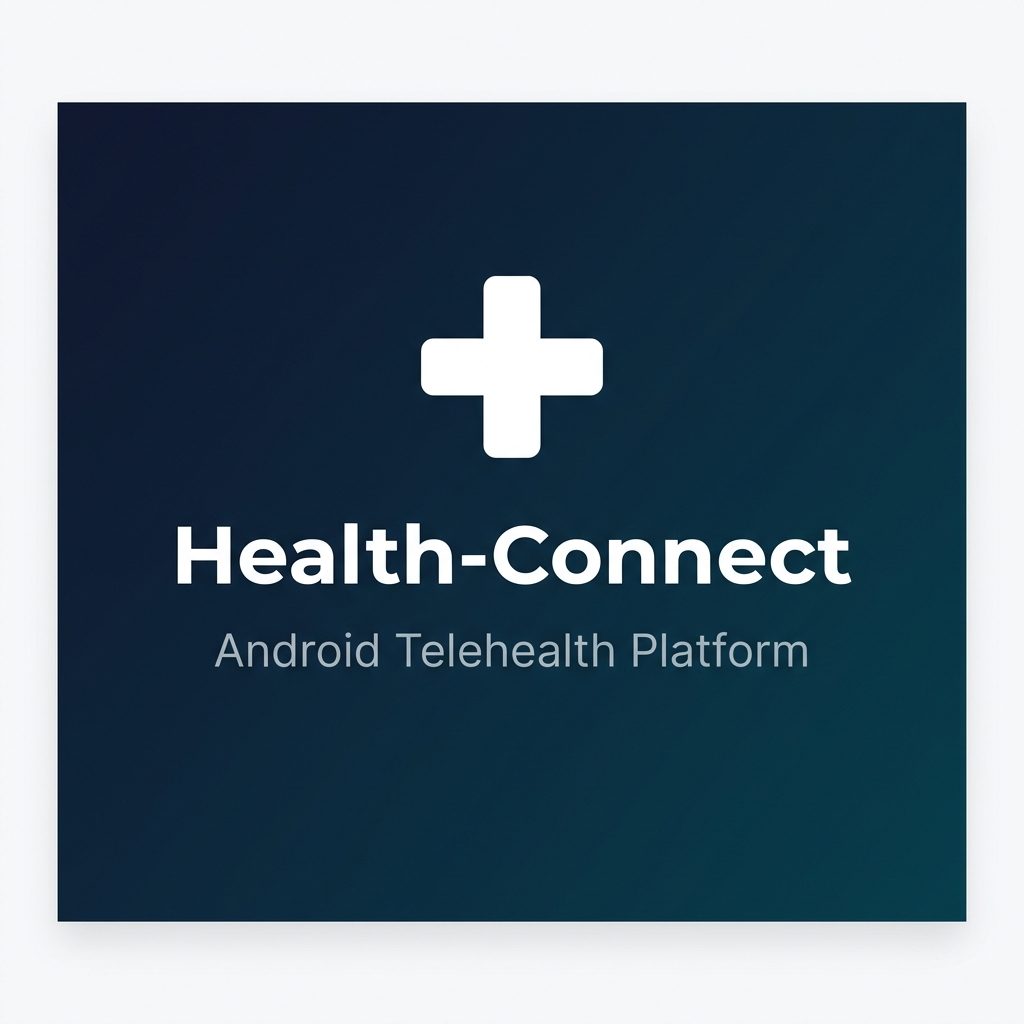
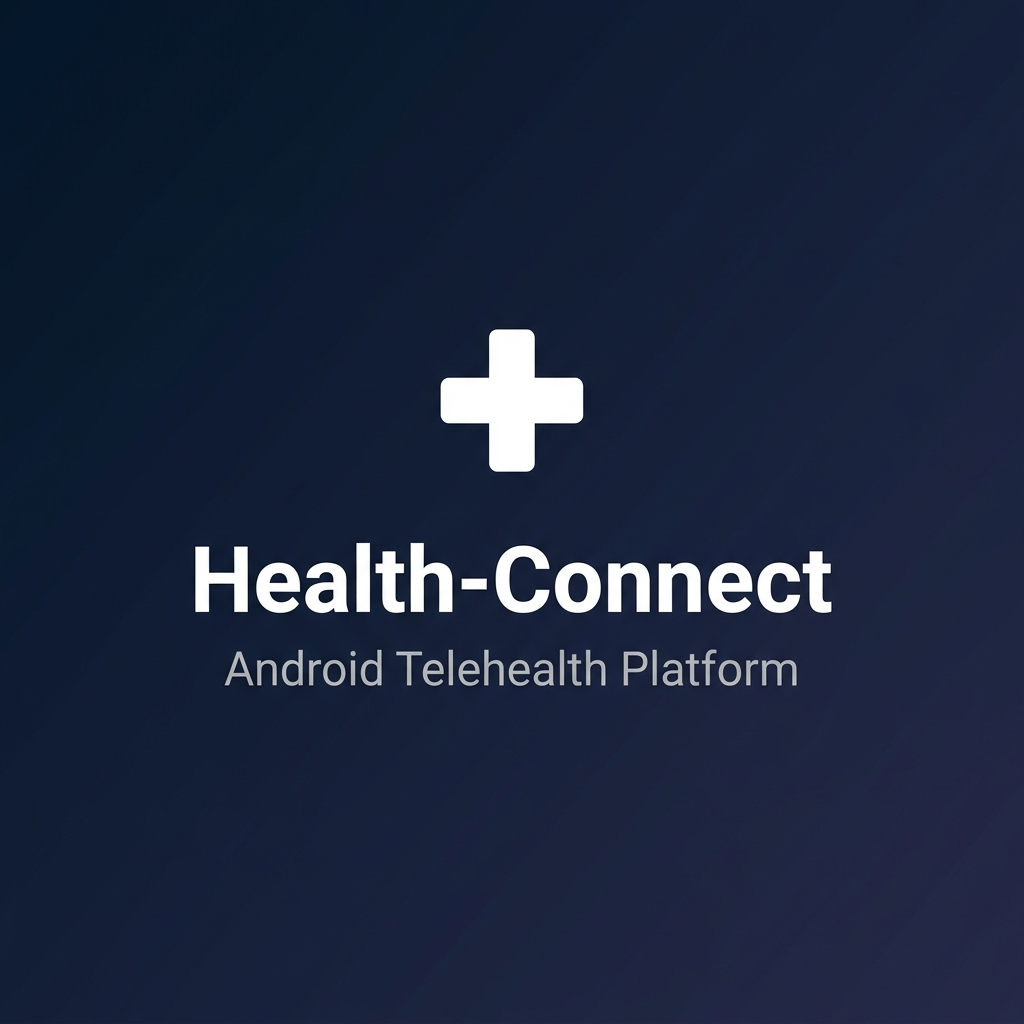
fix project image not filling card holder

diff --git a/src/styles/HomeStyles.css b/src/styles/HomeStyles.css
@@ -171,8 +171,9 @@
 
 .project-img {
   width: 100%;
-  height: auto;
+  height: 100%;
   object-fit: cover;
+  object-position: center;
   transition: transform 0.3s ease;
 }
 